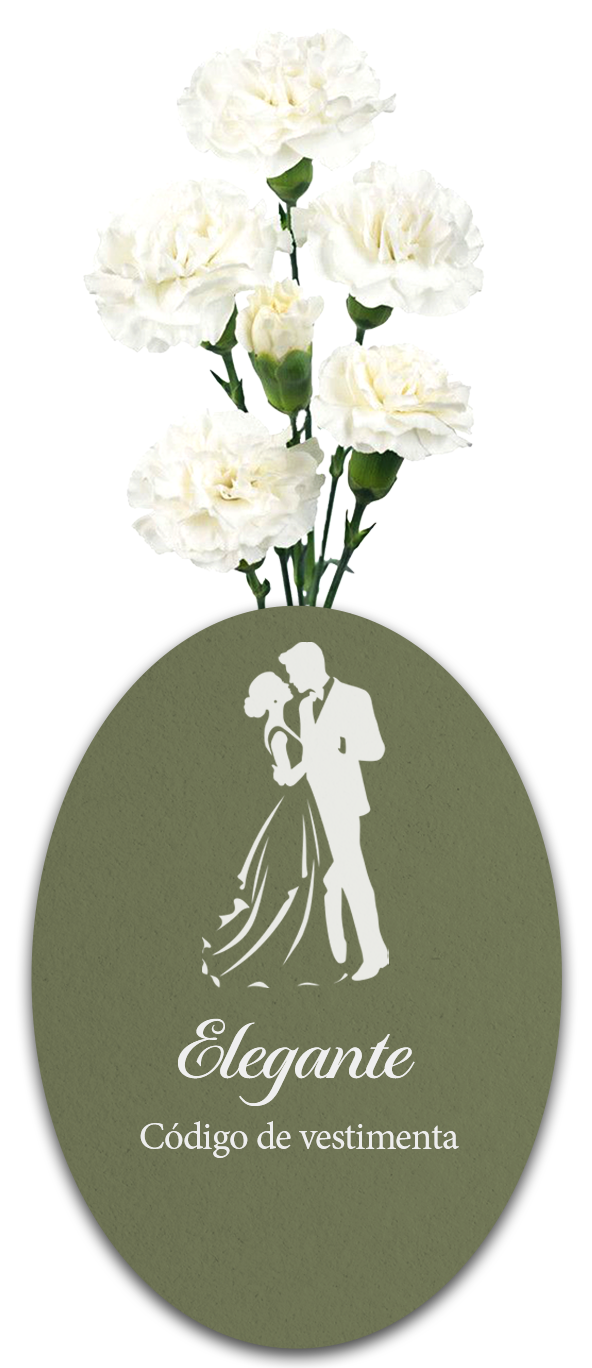
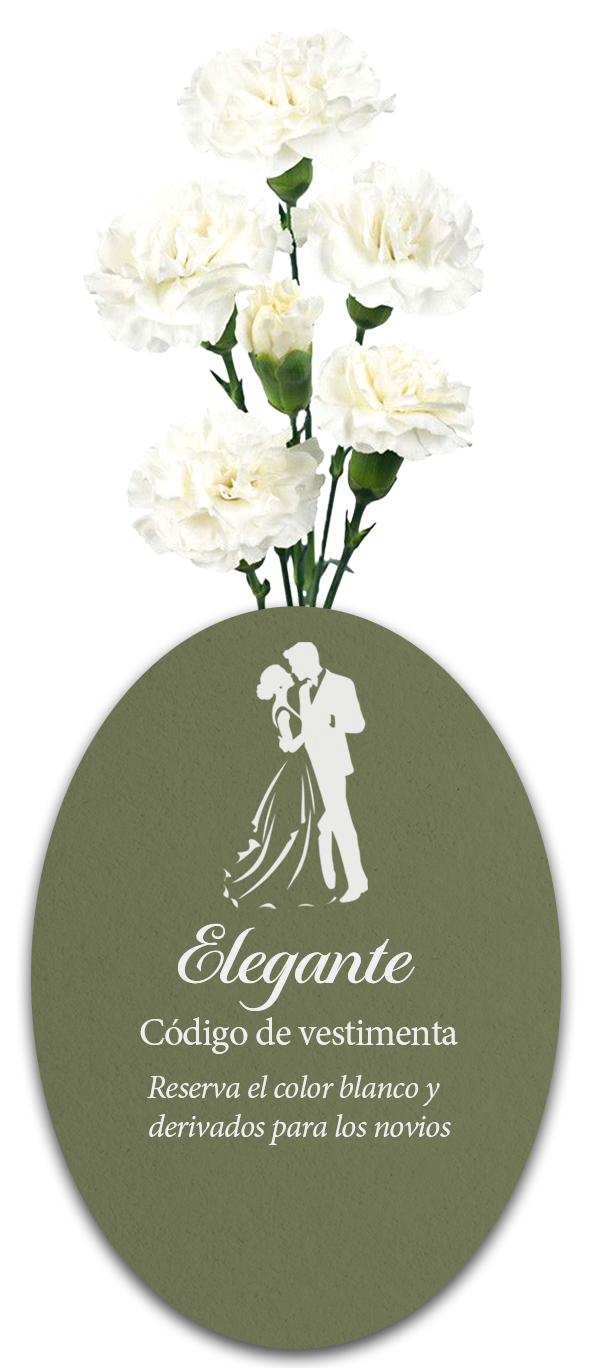
Added white restriction

Changed region(s): [[0.2432, 0.4605, 0.7905, 0.8596]]

diff --git a/index.html b/index.html
@@ -22,7 +22,7 @@
         <div class="regalos-content">
 
             <div class="regalos-buttons">
-                <a href="https://ricardoyzafiro.com/invitation_sm.html" target="_blank" class="store-btn-link" aria-label="Ver invitación">
+                <a href="/invitation_sm.html" target="_blank" class="store-btn-link" aria-label="Ver invitación">
                     <img src="assets/button_env.webp" alt="Botón de Invitacion" class="store-btn-img">
                 </a>
             </div>
